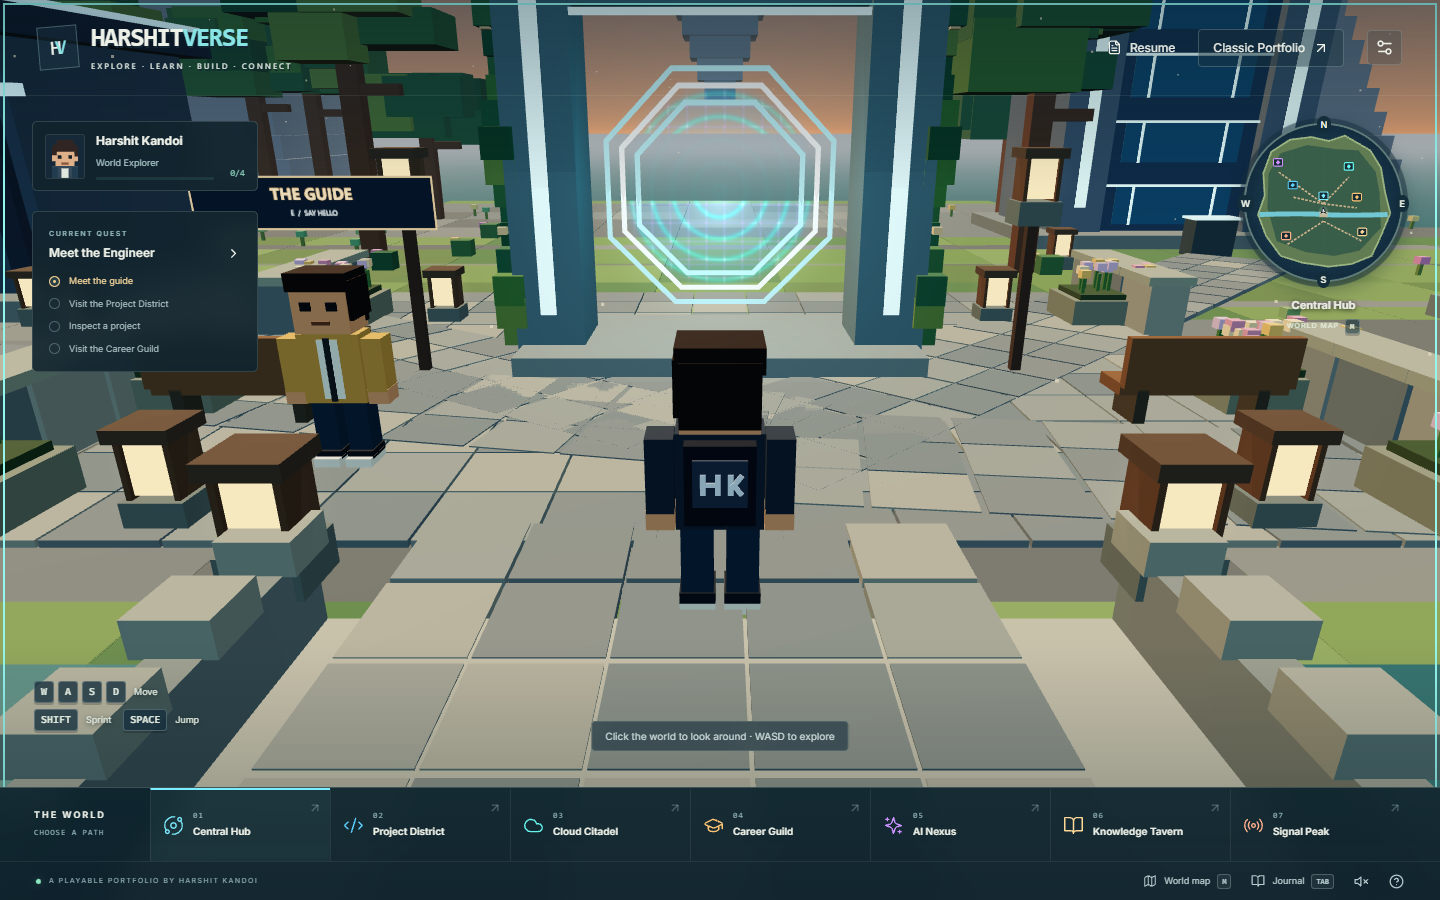
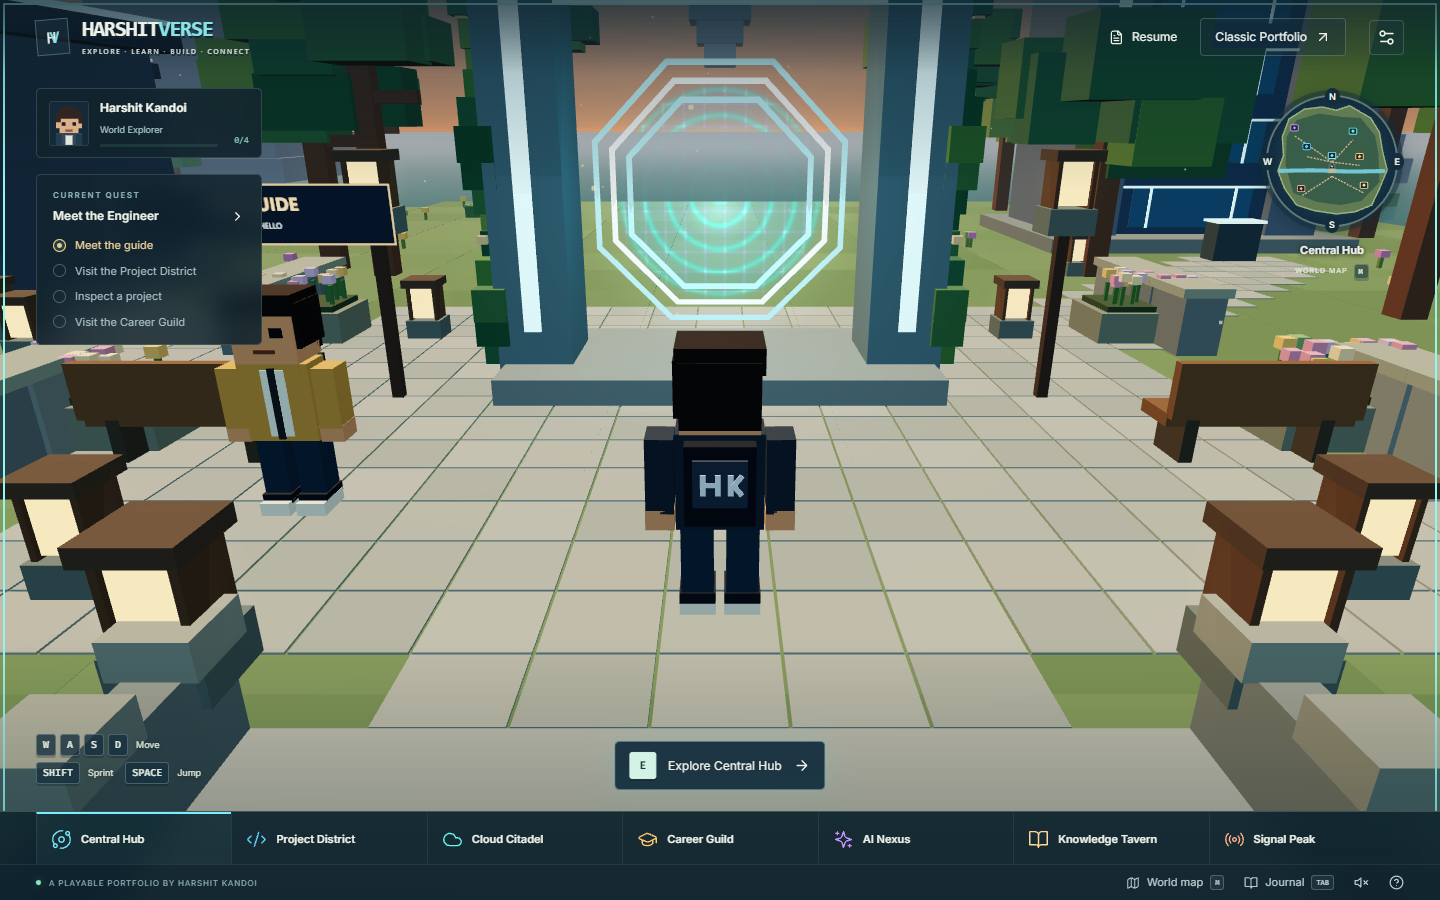
optimization

diff --git a/src/game/game.css b/src/game/game.css
@@ -14,4 +14,42 @@
 @media(max-height:780px){.verse-lobby-copy{top:25%}.verse-lobby-copy h1{font-size:58px;margin:18px 0;letter-spacing:-3px}.verse-lobby-actions{margin-top:22px}.verse-lobby-note{margin-top:23px}.verse-scene-label{bottom:170px}.verse-topbar{height:80px;padding-top:17px;padding-bottom:17px}.verse-lobby-profile,.verse-player-card,.verse-minimap{top:102px}.verse-mission-card{top:190px}.verse-panel{max-height:90vh}}
 @media(max-width:950px){.verse-brand>div{font-size:21px}.verse-lobby-copy h1{font-size:51px}.verse-lobby-copy{width:410px}.verse-destination-heading{display:none}.verse-destinations{grid-template-columns:repeat(7,minmax(0,1fr))}.verse-destinations>button{flex-direction:column;align-items:flex-start;gap:5px;padding:12px!important}.verse-destinations small{display:none}.verse-bottom-meta>span{font-size:6px;letter-spacing:.7px}.verse-lobby-profile{transform:scale(.9);transform-origin:right top}.verse-map-layout{grid-template-columns:1fr 1fr;gap:15px}.verse-panel-header,.verse-panel-body{padding:21px}.verse-scene-label{display:none}.verse-topbar nav{gap:12px}}
 .verse-reduced-motion *{animation:none!important;transition:none!important}
+/* Give the scene more room during play, while keeping every section one click away. */
+.harshitverse{--dock-height:112px;--hud-gap:clamp(20px,2.5vw,38px)}
+.verse-topbar{padding-inline:var(--hud-gap)}
+.verse-destinations{grid-template-columns:100px repeat(7,minmax(0,1fr));padding-inline:var(--hud-gap)}
+.verse-destinations>button{min-width:0;padding:17px 12px!important}
+.verse-destinations strong{font-size:11px;white-space:normal;line-height:1.3}
+.verse-bottom-meta{padding-inline:var(--hud-gap);height:36px}
+.verse-bottom-meta>span{letter-spacing:1px;font-size:8px}
+.verse-bottom-meta button{font-size:11px;min-height:32px}
+.verse-lobby-copy{top:clamp(115px,24vh,240px);bottom:calc(var(--dock-height) + 30px);width:min(46vw,600px);overflow-y:auto;scrollbar-width:thin;scrollbar-color:#79bbaa55 transparent;padding:0 8px 8px 0}
+.verse-lobby-copy h1{font-size:clamp(46px,5vw,76px);letter-spacing:-3px}
+.verse-lobby-note{margin-top:28px}
+.verse-scene-label{bottom:calc(var(--dock-height) + 42px)}
+.is-playing .verse-topbar{height:74px;padding-block:16px;background:linear-gradient(#11242e99,#11242e00);border-bottom:0}
+.is-playing .verse-brand>div{font-size:22px}
+.is-playing .verse-brand-symbol{width:33px;height:36px;font-size:17px}
+.is-playing .verse-brand small{font-size:7px;letter-spacing:1.5px;padding-top:6px}
+.is-playing .verse-player-card{top:88px;left:var(--hud-gap);width:226px}
+.is-playing .verse-mission-card{top:174px;left:var(--hud-gap);padding:14px 16px;background:#11242ed6}
+.verse-mission-card>div{font-size:11px;line-height:1.5}
+.verse-mission-card>.verse-eyebrow{font-size:8px}
+.verse-mission-card>div>span{width:13px;height:13px}
+.is-playing .verse-minimap{top:95px;right:calc(var(--hud-gap) + 6px);width:132px}
+.is-playing .verse-destination-heading{display:none}
+.is-playing .verse-destinations{grid-template-columns:repeat(7,minmax(0,1fr))}
+.is-playing .verse-destinations>button{padding:13px 14px!important;min-height:52px}
+.is-playing .verse-destinations small,.is-playing .verse-zone-arrow{display:none}
+.is-playing .verse-bottom-meta>span{letter-spacing:.8px}
+.is-playing .verse-key-hints{bottom:110px;left:var(--hud-gap)}
+.is-playing .verse-interaction{bottom:110px;max-width:calc(100vw - 540px);white-space:normal;text-align:center}
+.verse-interaction>span{display:block;font-size:11px}
+.verse-panel{max-height:calc(100dvh - 48px)}
+.verse-panel-header,.verse-panel-footer{flex-shrink:0}
+.verse-panel-body{min-height:0;scrollbar-gutter:stable}
+.verse-panel-footer>span{font-size:9px;letter-spacing:.8px}
+@media(max-width:1200px){.verse-destination-heading{display:none}.verse-destinations{grid-template-columns:repeat(7,minmax(0,1fr))}.verse-destinations>button{padding:14px 8px!important;gap:7px}.verse-zone-arrow{display:none}.verse-lobby-profile{right:var(--hud-gap)}.verse-lobby-intro{font-size:13px}.verse-lobby-copy{left:6%;width:47vw}.verse-bottom-meta>div{gap:14px}.verse-key-hints{font-size:10px}.is-playing .verse-destinations>button{padding:12px 8px!important}}
+@media(max-height:700px){.harshitverse{--dock-height:98px}.verse-lobby-copy{top:105px;bottom:118px}.verse-lobby-copy h1{font-size:clamp(42px,4.5vw,62px);margin:16px 0}.verse-lobby-actions{margin-top:20px;gap:12px}.verse-lobby-note{margin-top:20px;padding-top:12px}.verse-topbar{height:76px}.verse-lobby-profile{top:98px}.verse-lobby-profile,.verse-scene-label{transform:scale(.9);transform-origin:right top}.is-playing .verse-player-card{top:78px}.is-playing .verse-mission-card{top:162px}.is-playing .verse-minimap{top:86px;width:110px}.is-playing .verse-key-hints{bottom:103px}.is-playing .verse-interaction{bottom:106px}}
+@media(max-height:560px){.is-playing .verse-mission-card>div:not(.is-current){display:none}.is-playing .verse-mission-card{top:155px}.verse-lobby-note{display:none}.verse-lobby-copy{top:98px}.verse-lobby-copy h1{margin:12px 0}.verse-lobby-copy>.verse-eyebrow{font-size:8px}.verse-lobby-intro{font-size:12px}.verse-lobby-actions{margin-top:16px;gap:10px}.verse-lobby-actions .verse-enter{padding:12px 18px!important}.verse-wide-break{display:none}.is-playing .verse-key-hints{display:none}.is-playing .verse-interaction{max-width:70vw}}
 @media(prefers-reduced-motion:reduce){.harshitverse *{animation:none!important;transition:none!important}}

diff --git a/src/game/Environment.ts b/src/game/Environment.ts
@@ -1,6 +1,7 @@
 import * as THREE from 'three';
 import { zones, colliders, type Collider } from './world';
 import { makeAvatar } from './Avatar';
+import { createGroundLayout, groundColor, river as riverChannel } from './terrain';
 
 type Block = { p: [number, number, number]; s: [number, number, number]; color: string; glow: boolean; rotation: number };
 export function createEnvironment(scene: THREE.Scene) {
@@ -12,7 +13,6 @@ export function createEnvironment(scene: THREE.Scene) {
   const pick = (colors: string[]) => colors[Math.floor(random() * colors.length)];
   function box(x: number, y: number, z: number, w: number, h: number, d: number, color: string, glow = false, rotation = 0) { blocks.push({ p: [x, y, z], s: [w, h, d], color, glow, rotation }); }
   const stone = ['#6b777a', '#7b8683', '#8c9288', '#657478'];
-  const grass = ['#567346', '#5d8047', '#64854c', '#4b7046', '#6a8c52'];
   const foliage = ['#315d40', '#477247', '#527d42', '#6f8b48', '#3c694a'];
   function tree(x: number, z: number, height = 7, distant = false) {
     const ground = distant ? -2 : 0;
@@ -32,28 +32,9 @@ export function createEnvironment(scene: THREE.Scene) {
     box(x, y + 1.3, z, 0.82, 0.18, 0.82, '#55473a');
     for (const s of [-1, 1]) box(x + s * 0.3, y + 0.84, z, 0.07, 0.8, 0.64, '#604835');
   }
-  function path(ax: number, az: number, bx: number, bz: number, width = 3.8) {
-    const length = Math.hypot(bx - ax, bz - az); const angle = Math.atan2(bx - ax, bz - az);
-    for (let l = 0; l < length; l += 1.5) {
-      for (let k = -width / 2; k < width / 2; k += 1.3) {
-        const t = l / length; const x = ax + (bx - ax) * t + Math.cos(angle) * k; const z = az + (bz - az) * t - Math.sin(angle) * k;
-        box(x, 0.065, z, 1.26, 0.12, 1.4, pick(stone), false, angle);
-      }
-    }
-  }
-  // Block terraces create a real island silhouette, including visible cliffs.
-  for (let x = -52; x <= 52; x += 4) for (let z = -52; z <= 52; z += 4) {
-    const radius = Math.hypot(x, z); if (radius > 52 + 1.2 * Math.sin(x)) continue;
-    const inland = radius < 47;
-    box(x, inland ? -3.5 : -4.4, z, 4, inland ? 7 : 5.2, 4, pick(['#596264', '#657072', '#707978']));
-    box(x, inland ? -0.25 : -1.75, z, 4.03, 0.5, 4.03, pick(grass));
-  }
-  // Central paved square and raised foundation for the portal.
-  for (let x = -9; x <= 9; x += 1.5) for (let z = -11; z <= 5; z += 1.5) box(x, 0.055, z, 1.46, 0.1, 1.46, pick(stone));
-  for (const zone of zones.filter(z => z.id !== 'hub')) path(0, zone.z > 10 ? 14 : 1, zone.spawn[0], zone.spawn[1]);
-  path(0, 5, 0, 29, 6);
+  // Terrain layers meet at their edges, with a single paving grid and excavated river.
+  for (const block of createGroundLayout()) box(block.x, block.y, block.z, block.width, block.height, block.depth, groundColor(block));
   // Stone bridge with crenellated rails and warm lights over a flowing river.
-  box(0, 0.06, 9, 8.4, 0.1, 5, '#9da293');
   for (const side of [-1, 1]) {
     box(side * 4.2, 0.48, 9, 0.45, 0.95, 5, '#727f7e');
     for (let z = 6.8; z <= 11.3; z += 1.3) box(side * 4.2, 1.12, z, 0.7, 0.35, 0.7, '#8a9389');
@@ -208,9 +189,9 @@ export function createEnvironment(scene: THREE.Scene) {
   const waterMaterial = new THREE.MeshStandardMaterial({ color: '#407d8d', metalness: 0.42, roughness: 0.28, transparent: true, opacity: 0.92 });
   const ocean = new THREE.Mesh(oceanGeometry, waterMaterial); ocean.rotation.x = -Math.PI / 2; ocean.position.y = -3; scene.add(ocean);
   const riverGeometry = new THREE.PlaneGeometry(104, 3.6, 100, 4); riverGeometry.rotateX(-Math.PI / 2);
-  const river = new THREE.Mesh(riverGeometry, waterMaterial); river.position.set(0, 0.045, 9); scene.add(river);
+  const river = new THREE.Mesh(riverGeometry, waterMaterial); river.position.set(0, riverChannel.waterY, 9); scene.add(river);
   const foam = new THREE.InstancedMesh(new THREE.PlaneGeometry(1, 1), new THREE.MeshBasicMaterial({ color: '#b9dee2', transparent: true, opacity: 0.25, depthWrite: false }), 52);
-  for (let j = 0; j < 52; j++) { transform.rotation.set(-Math.PI / 2, 0, 0); transform.scale.set(0.5 + random() * 1.6, 0.035, 1); transform.position.set((random() - 0.5) * 97, 0.11, 7.6 + random() * 2.8); transform.updateMatrix(); foam.setMatrixAt(j, transform.matrix); } foam.computeBoundingSphere(); scene.add(foam);
+  for (let j = 0; j < 52; j++) { transform.rotation.set(-Math.PI / 2, 0, 0); transform.scale.set(0.5 + random() * 1.6, 0.035, 1); const x = (random() - 0.5) * 87; transform.position.set(x < 0 ? x - 5 : x + 5, riverChannel.waterY + 0.04, 7.6 + random() * 2.8); transform.updateMatrix(); foam.setMatrixAt(j, transform.matrix); } foam.computeBoundingSphere(); scene.add(foam);
   const waterfall = new THREE.Mesh(new THREE.BoxGeometry(3.4, 9, 0.12), new THREE.MeshStandardMaterial({ color: '#8abccb', emissive: '#367a94', emissiveIntensity: 0.4, transparent: true, opacity: 0.75 })); waterfall.position.set(48.1, -4.3, 9); waterfall.rotation.y = Math.PI / 2; scene.add(waterfall);
   const portal = new THREE.Group(); portal.position.set(0, 3.6, -3.4);
   const aiOrb = new THREE.Group(); aiOrb.position.set(-34, 9.2, -25.6);

diff --git a/src/game/terrain.ts b/src/game/terrain.ts
@@ -1,0 +1,68 @@
+import { zones } from './world';
+
+export interface GroundBlock {
+  x: number; y: number; z: number;
+  width: number; height: number; depth: number;
+  surface: 'rock' | 'grass' | 'paving' | 'bridge';
+}
+export const river = { minZ: 7.2, maxZ: 10.8, waterY: -0.24, bedY: -1.25 };
+export const pavingTop = 0.025;
+const tileStep = 1.2;
+
+// One ownership grid for all routes: intersections never stack coplanar pavers.
+export function createGroundLayout(): GroundBlock[] {
+  const blocks: GroundBlock[] = [];
+  for (let x = -52; x <= 52; x += 4) for (let z = -52; z <= 52; z += 4) {
+    const radius = Math.hypot(x, z);
+    if (radius > 52 + 1.2 * Math.sin(x)) continue;
+    const top = radius < 47 ? 0 : -1.5;
+    const cuts = [z - 2, river.minZ, river.maxZ, z + 2]
+      .filter(v => v >= z - 2 && v <= z + 2).sort((a, b) => a - b);
+    for (let i = 1; i < cuts.length; i++) {
+      const depth = cuts[i] - cuts[i - 1];
+      if (depth <= 0) continue;
+      const centerZ = (cuts[i] + cuts[i - 1]) / 2;
+      const channel = centerZ > river.minZ && centerZ < river.maxZ;
+      const rockTop = channel ? river.bedY : top - 0.5;
+      blocks.push({ x, y: (rockTop - 7) / 2, z: centerZ, width: 4, height: rockTop + 7, depth, surface: 'rock' });
+      if (!channel) blocks.push({ x, y: top - 0.25, z: centerZ, width: 4, height: 0.5, depth, surface: 'grass' });
+    }
+  }
+  const routes = zones.filter(zone => zone.id !== 'hub').map(zone => ({
+    ax: 0, az: zone.z > 10 ? 14 : 1, bx: zone.spawn[0], bz: zone.spawn[1], width: 4.2,
+  }));
+  routes.push({ ax: 0, az: 4, bx: 0, bz: 29, width: 6 });
+  for (let ix = -39; ix <= 39; ix++) for (let iz = -39; iz <= 39; iz++) {
+    const x = ix * tileStep, z = iz * tileStep;
+    // Clip the approach rows exactly to the bridge, leaving only the normal grout seam.
+    let minZ = z - tileStep / 2, maxZ = z + tileStep / 2;
+    if (minZ < 11.5 && maxZ > 6.5) {
+      if (minZ < 6.5) maxZ = 6.5;
+      else if (maxZ > 11.5) minZ = 11.5;
+      else continue;
+    }
+    const plaza = Math.abs(x) <= 9 && z >= -11 && z <= 5;
+    const route = routes.some(({ ax, az, bx, bz, width }) => {
+      const dx = bx - ax, dz = bz - az;
+      const t = Math.max(0, Math.min(1, ((x - ax) * dx + (z - az) * dz) / (dx * dx + dz * dz)));
+      return Math.hypot(x - ax - t * dx, z - az - t * dz) <= width / 2;
+    });
+    if (!plaza && !route) continue;
+    blocks.push({ x, y: pavingTop - 0.06, z: (minZ + maxZ) / 2, width: tileStep - 0.035, height: 0.12, depth: maxZ - minZ - 0.035, surface: 'paving' });
+  }
+  blocks.push({ x: 0, y: pavingTop - 0.15, z: 9, width: 8.4, height: 0.3, depth: 5, surface: 'bridge' });
+  return blocks;
+}
+
+// Position-based colors keep adjacent tiles quiet and stable as scenery evolves.
+export function groundColor(block: GroundBlock): string {
+  const palettes = {
+    rock: ['#596567', '#626e6e', '#697373'],
+    grass: ['#58754b', '#5b794d', '#5e7b50', '#567349', '#607d50'],
+    paving: ['#8c9690', '#949b93', '#88938d', '#919a93', '#98a098'],
+    bridge: ['#949e98'],
+  };
+  const colors = palettes[block.surface];
+  const hash = Math.abs(Math.round(block.x * 100) * 73856093 ^ Math.round(block.z * 100) * 19349663);
+  return colors[hash % colors.length];
+}

diff --git a/e2e/harshitverse.spec.ts b/e2e/harshitverse.spec.ts
@@ -103,3 +103,39 @@ test('all direct sections, map and keyboard focus remain accessible from the lob
   await page.keyboard.press('Escape'); await expect(page.getByRole('dialog')).toBeVisible();
   expect(await page.evaluate(() => document.pointerLockElement)).toBe(null);
 });
+
+test('lobby and gameplay layouts fit laptop and compact desktop viewports', async ({ page }, info) => {
+  await launch(page);
+  for (const size of [{ width: 1440, height: 900 }, { width: 1366, height: 768 }, { width: 1024, height: 640 }, { width: 900, height: 500 }]) {
+    await page.setViewportSize(size);
+    const copy = await page.locator('.verse-lobby-copy').boundingBox();
+    const dock = await page.locator('.verse-bottom').boundingBox();
+    expect(copy!.y + copy!.height).toBeLessThanOrEqual(dock!.y);
+    const help = await page.getByRole('button', { name: 'First time here? How to play' }).boundingBox();
+    expect(help!.y + help!.height).toBeLessThanOrEqual(copy!.y + copy!.height);
+    for (const button of await page.locator('.verse-destinations>button').all()) {
+      const rect = await button.boundingBox();
+      expect(rect!.x).toBeGreaterThanOrEqual(0);
+      expect(rect!.x + rect!.width).toBeLessThanOrEqual(size.width + 1);
+      const label = button.locator('strong');
+      expect(await label.evaluate(el => el.scrollWidth <= el.clientWidth + 1)).toBe(true);
+    }
+    if (size.width === 1024) await page.screenshot({ path: info.outputPath(`lobby-${size.width}.png`), animations: 'disabled' });
+  }
+  await page.getByRole('button', { name: 'Enter World' }).click();
+  for (const size of [{ width: 900, height: 500 }, { width: 1024, height: 640 }, { width: 1366, height: 768 }]) {
+    await page.setViewportSize(size);
+    const mission = await page.locator('.verse-mission-card').boundingBox();
+    const dock = await page.locator('.verse-bottom').boundingBox();
+    const prompt = await page.locator('.verse-interaction').boundingBox();
+    const controls = await page.locator('.verse-key-hints').boundingBox();
+    expect(mission!.y + mission!.height).toBeLessThan(dock!.y);
+    expect(prompt!.y + prompt!.height).toBeLessThan(dock!.y);
+    if (controls) expect(controls.x + controls.width).toBeLessThan(prompt!.x);
+    if (size.width === 900) await page.screenshot({ path: info.outputPath(`gameplay-${size.width}.png`), animations: 'disabled' });
+  }
+  await travel(page, 'Project District');
+  await page.screenshot({ path: info.outputPath('project-path.png'), animations: 'disabled' });
+  await travel(page, 'Cloud Citadel');
+  await page.screenshot({ path: info.outputPath('cloud-path.png'), animations: 'disabled' });
+});

diff --git a/src/game/__tests__/terrain.test.ts b/src/game/__tests__/terrain.test.ts
@@ -1,0 +1,38 @@
+import { describe, expect, it } from 'vitest';
+import { createGroundLayout, pavingTop, river } from '../terrain';
+import { zones } from '../world';
+
+describe('ground surface integrity', () => {
+  const blocks = createGroundLayout();
+  const paving = blocks.filter(b => b.surface === 'paving' || b.surface === 'bridge');
+  it('has no overlapping paving at junctions or on the bridge', () => {
+    const overlaps: string[] = [];
+    for (let i = 0; i < paving.length; i++) {
+      const a = paving[i];
+      expect(a.y + a.height / 2).toBeCloseTo(pavingTop, 8);
+      for (let j = i + 1; j < paving.length; j++) {
+        const b = paving[j];
+        const overlapX = (a.width + b.width) / 2 - Math.abs(a.x - b.x);
+        const overlapZ = (a.depth + b.depth) / 2 - Math.abs(a.z - b.z);
+        if (overlapX > 1e-8 && overlapZ > 1e-8) overlaps.push(`${a.x},${a.z} and ${b.x},${b.z}`);
+      }
+    }
+    expect(overlaps).toEqual([]);
+  });
+  it('keeps grass above its support and water inside an open channel', () => {
+    const grass = blocks.filter(b => b.surface === 'grass');
+    for (const a of grass) {
+      expect(a.z + a.depth / 2 <= river.minZ || a.z - a.depth / 2 >= river.maxZ).toBe(true);
+      const rock = blocks.find(b => b.surface === 'rock' && b.x === a.x && b.z === a.z)!;
+      expect(rock.y + rock.height / 2).toBeCloseTo(a.y - a.height / 2, 8);
+    }
+    const riverBed = blocks.filter(b => b.surface === 'rock' && b.z > river.minZ && b.z < river.maxZ);
+    expect(riverBed.length).toBeGreaterThan(20);
+    for (const bed of riverBed) expect(bed.y + bed.height / 2).toBeLessThan(river.waterY - 0.5);
+  });
+  it('paves every fast-travel arrival and connects both ends of the bridge', () => {
+    for (const [x, z] of [...zones.map(zone => zone.spawn), [0, 6], [0, 12]] as [number, number][]) {
+      expect(paving.some(b => Math.abs(b.x - x) <= b.width / 2 + 0.08 && Math.abs(b.z - z) <= b.depth / 2 + 0.08), `${x},${z}`).toBe(true);
+    }
+  });
+});

diff --git a/src/game/Engine.ts b/src/game/Engine.ts
@@ -11,7 +11,7 @@ export function createEngine(host: HTMLElement, report: (s: WorldSnapshot) => vo
   renderer.shadowMap.type = THREE.PCFSoftShadowMap; renderer.setClearColor('#a9b9bb');
   const canvas = renderer.domElement; canvas.tabIndex = 0; canvas.setAttribute('aria-label', 'HarshitVerse 3D world. Use WASD to move, Shift to sprint, Space to jump, E to interact.'); host.appendChild(canvas);
   const scene = new THREE.Scene(); scene.fog = new THREE.FogExp2('#abb6bd', 0.0065);
-  const camera = new THREE.PerspectiveCamera(55, 1, 0.1, 1000); camera.position.set(13, 11.5, 32);
+  const camera = new THREE.PerspectiveCamera(55, 1, 0.25, 850); camera.position.set(10, 14, 39);
   scene.add(new THREE.HemisphereLight('#d4eaf7', '#70583c', 1.5));
   const sun = new THREE.DirectionalLight('#ffd2a0', 3.8); sun.position.set(-35, 65, -30); sun.castShadow = true;
   sun.shadow.camera.left = sun.shadow.camera.bottom = -55; sun.shadow.camera.right = sun.shadow.camera.top = 55; sun.shadow.camera.near = 1; sun.shadow.camera.far = 160; sun.shadow.bias = -0.001; sun.shadow.normalBias = 0.05; sun.shadow.mapSize.set(2048, 2048); scene.add(sun);
@@ -102,7 +102,7 @@ export function createEngine(host: HTMLElement, report: (s: WorldSnapshot) => vo
     } else {
       player.root.position.set(0, 0, 13); player.root.rotation.y = Math.PI; player.animate(time, 0, false);
       const orbit = state.reducedMotion ? 0 : Math.sin(time * 0.055) * 5;
-      desired.set(13 + orbit * 0.4, 11.5, 32); camera.position.lerp(desired, 1 - Math.exp(-1.6 * dt)); camera.lookAt(0, 4, -8);
+      desired.set(10 + orbit * 0.4, 14, 39); camera.position.lerp(desired, 1 - Math.exp(-1.6 * dt)); camera.lookAt(0, 4, -8);
     }
     world.update(time, state.reducedMotion);
     try { renderer.render(scene, camera); } catch { fail('This browser could not render the world. You can still explore every portfolio section directly.'); return; }

diff --git a/docs/harshitverse.md b/docs/harshitverse.md
@@ -20,13 +20,23 @@ The world uses original procedural geometry and canvas-generated signs, rather t
 
 Historical OS modules are retained because their apps, store and tests have shared dependencies; they are no longer loaded by the interactive entry. Removing that legacy tree is a separate cleanup once those dependencies are migrated.
 
+## Terrain and layout polish
+
+The ground layout now uses distinct rock and grass layers, a single shared paving grid for the plaza and every route, and a recessed river bed. Path intersections and bridge approaches no longer contain stacked paving surfaces. Position-based colors reduce the patchwork effect without changing the voxel style. All fast-travel arrivals remain paved and the existing level-ground movement and river collision rules remain valid.
+
+The lobby camera has a wider view of the hub and adjacent buildings. Gameplay uses a shorter header and destination dock, smaller minimap, and larger mission text. Lobby copy has bounded scrolling on short screens, destination labels wrap on narrower displays, and panel headers and footers remain fixed while their contents scroll. Below 560 pixels in height, the quest shows the active objective; the full journal remains available.
+
+Focused terrain checks cover paving overlap, river clearance, support-layer contact, arrival paving and bridge approaches. Browser layout checks cover 1440 × 900, 1366 × 768, 1024 × 640 and 900 × 500 viewports alongside the existing movement, interaction, mission and camera checks.
+
+This polish pass passed TypeScript, production build/prerender and seven focused terrain/navigation/state tests. The three existing game browser checks passed against the production build; the new responsive check passed separately after reducing duplicate screenshots that exceeded the software-renderer time budget. Screenshots were reviewed for the hub, Project District, Cloud Citadel and compact lobby/gameplay layouts. The latest low-quality browser sample used 30 draw calls. Hardware frame-rate validation is still outstanding.
+
 ## Performance
 
 Balanced mode limits device pixel ratio to 1.5 with one shadow-casting directional light. Low mode uses pixel ratio 1 and disables shadows. Solid scenery uses instance colors in one shared mesh, with a separate batch for each glowing accent. Each animated avatar uses a single instanced mesh; water foam and lantern glow are also batched. All scene resources, input listeners, instance buffers, the animation loop and the WebGL context are released on exit. Reduced motion disables the lobby camera orbit, atmospheric motion and interface animations.
 
 The Chromium software-renderer check sampled 30 draw calls and 4 FPS at 1440 × 900 in low mode. That is a constrained software-rendering measurement, not a hardware benchmark. The 30/60 FPS targets still require testing on real laptops and desktops.
 
-## Verification
+## Initial MVP verification
 
 - TypeScript validation passed.
 - 88 unit tests passed, including valid travel landings, river/bridge and building collision, interaction radii and exploration state.
